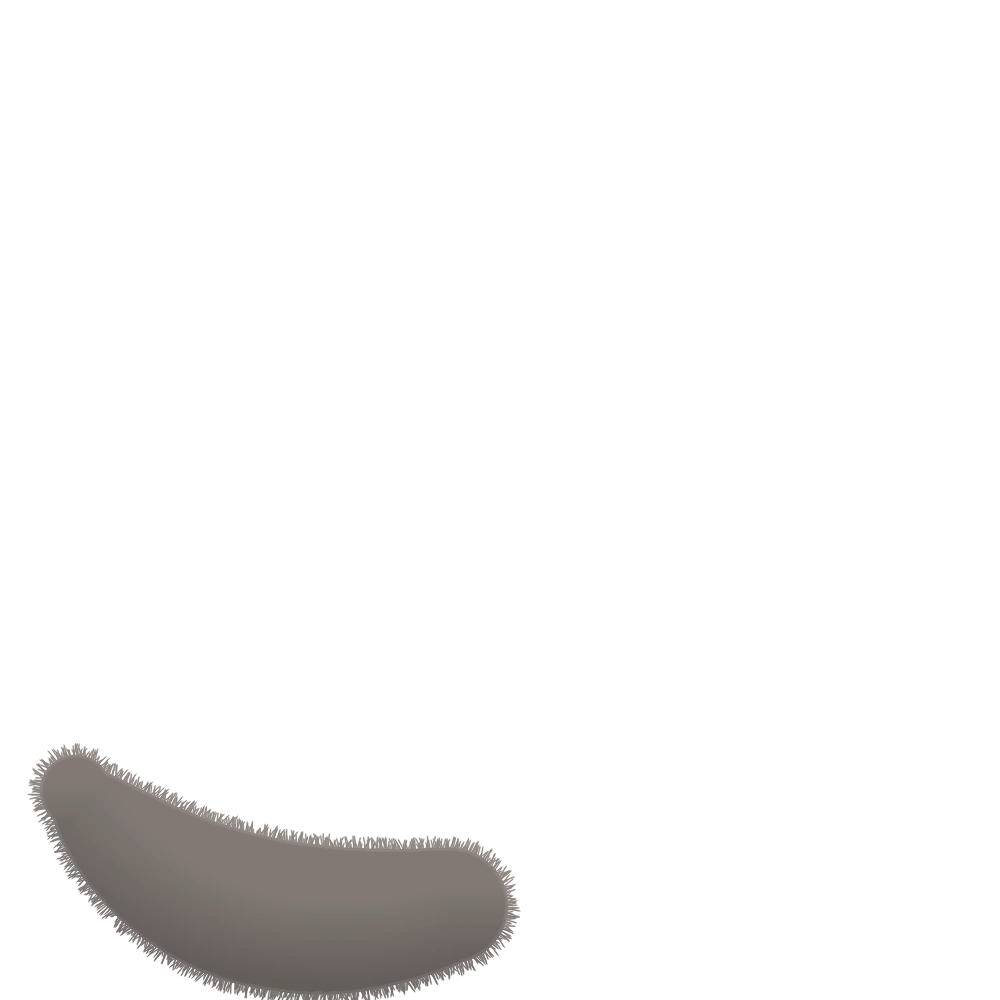
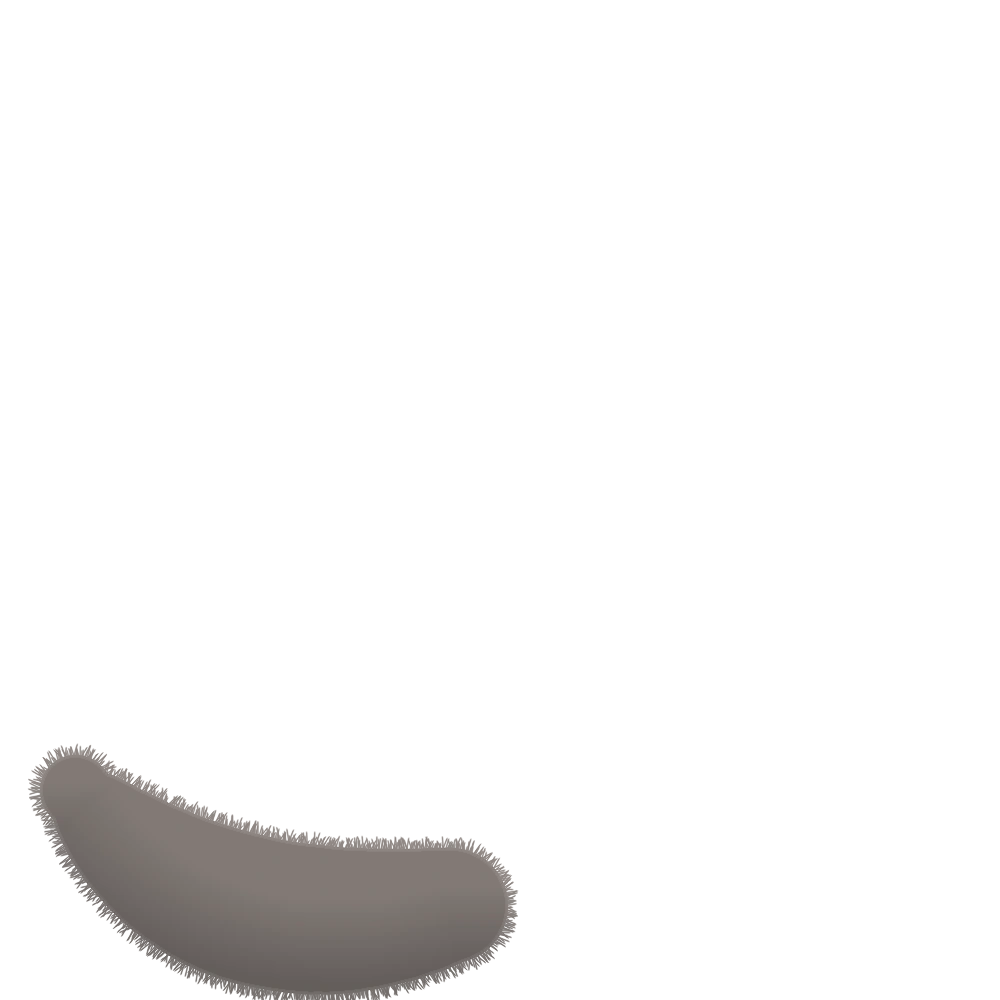
アナちゃん：耳の先のふさ・耳の中の毛・ほおの毛を 写真に合わせて調整
- 耳の先に 短い ふさ、耳の中から 外へのびる毛（耳メッシュの頂点に追従）
- 耳のつけ根の 白いかたまりを なくす
- ほおの毛を 灰色がかった こまかい房に、耳の下から 下へ広がる形に
- 胸のたてがみを 厚く、目の色を 少し 金色よりに
- 重ねる画像に mipmap（細い毛が 点々にならない）

Claude-Session: https://claude.ai/code/session_01W4x6f7KtFbhsBZfqVxHVQA

diff --git a/william/tpl.html b/william/tpl.html
@@ -728,14 +728,18 @@ function anaH() { return catH * 1.06; }
 // 座標は Tororo のモデルの座標（足もと (1000, 2201)、頭のまん中 (1000, 760)）。長毛の絵は 1 画素 = モデル 2 画素、左上 = モデルの (0, 300)
 async function loadAna(app, william) {
 	try {
-		while (ANA.n < 3) await new Promise((r) => setTimeout(r, 100));
-		const I = ANA.img, T = (im) => PIXI.Texture.from(im), root = new PIXI.Container(); root.pivot.set(1000, 2201);
+		while (ANA.n < 5) await new Promise((r) => setTimeout(r, 100));
+		const I = ANA.img, T = (im) => { const t = PIXI.Texture.from(im); t.baseTexture.mipmap = PIXI.MIPMAP_MODES.ON; return t; }, root = new PIXI.Container(); root.pivot.set(1000, 2201);
 		const spr = (im) => { const sp = new PIXI.Sprite(T(im)); sp.scale.set(2); sp.position.set(0, 300); return sp; };
 		const tail = new PIXI.SimplePlane(T(I.tail), 26, 2); tail.scale.set(2); tail.position.set(0, 300); ANA.tailV = Float32Array.from(tail.geometry.getBuffer('aVertexPosition').data);
 		const back = spr(I.back), mane = spr(I.mane);
 		const mk = async (url) => { const m = await PIXI.live2d.Live2DModel.from(url, { autoInteract: false }); m.internalModel.motionManager.groups.idle = '__none__'; m.internalModel.on('beforeModelUpdate', () => anaParams(m.internalModel.coreModel)); return m; };
 		const body = await mk('w/anabody.model3.json'), face = await mk('w/ana.model3.json');
-		root.addChild(tail, back, body, mane, face); app.stage.addChildAt(root, app.stage.getChildIndex(william));
+		// 耳の先の 竖毛と、耳から外へ出る 白い毛：毎コマ 耳の実際の位置（モデルの頂点）に合わせて置く
+		const ids = Array.from(body.internalModel.coreModel._model.drawables.ids); ANA.earIdx = [ids.indexOf('D_EAR_00'), ids.indexOf('D_EAR_04')];
+		ANA.tips = [0, 1].map(() => { const sp = new PIXI.Sprite(T(I.eartip)); sp.anchor.set(0.5, 104 / 110); sp.scale.set(2); return sp; });
+		ANA.hairs = [-1, 1].map((sx) => { const sp = new PIXI.Sprite(T(I.earhair)); sp.anchor.set(0.5, 104 / 110); sp.scale.set(2 * sx, 2); return sp; });
+		root.addChild(tail, back, ...ANA.tips, body, ...ANA.hairs, mane, face); app.stage.addChildAt(root, app.stage.getChildIndex(william));
 		Object.assign(ANA, { root, tail, back, mane, body, face, blinkAt: performance.now() + 3000, nextLick: performance.now() + 12000 });
 	} catch (e) { console.error(e); }
 }
@@ -767,8 +771,15 @@ function drawAna(t) {
 	const P = ANA.P = { lid, lick, dip, up, lx: reduce ? 0 : sm('lx', (pointer.nx || 0) * 0.9, 5), ly: reduce ? 0 : sm('ly', (pointer.ny || 0) * 0.7, 5), br: reduce ? 0 : Math.sin(t / 1500), sway: reduce ? 0 : Math.sin(t / 4300) * 0.7 + Math.sin(t / 2700 + 1) * 0.3,
 		chew: dip * (0.5 - 0.5 * Math.cos(t / 105)), earL: tw < 1 ? Math.sin(tw * Math.PI) : 0, earR: tw2 < 1 ? Math.sin(tw2 * Math.PI) : 0 };
 	ANA.root.position.set(sp.x, sp.y); ANA.root.scale.set(k);
+	// 耳の毛：耳の頂点から、耳の先（いちばん上の点）と 耳の向きを 求めて 置く（耳が動いても ずれない）
+	{ const dr = ANA.body.internalModel.coreModel._model.drawables;
+	  ANA.earIdx.forEach((di, e) => { const v = dr.vertexPositions[di]; if (!v) return; let tx = 0, ty = 1e9, cx = 0, cy = 0, n = v.length / 2;
+		for (let i = 0; i < v.length; i += 2) { const x = v[i] * 2000 + 1000, y = -v[i + 1] * 2000 + 1250; cx += x / n; cy += y / n; if (y < ty) { ty = y; tx = x; } }
+		const ang = Math.atan2(ty - cy, tx - cx) + Math.PI / 2, tip = ANA.tips[e], hr = ANA.hairs[e], sx = e ? 1 : -1;
+		tip.position.set(tx - Math.sin(ang) * -10, ty + 14); tip.rotation = ang;
+		hr.position.set(cx - sx * 34, cy + 70); hr.rotation = ang * 0.8; }); }  /* 耳の中の 下のほうから 生える */
 	// 長毛の部分は 体の動きに 少しだけ ついていく
-	ANA.mane.position.set(P.lx * 6, 300 + P.br * 3 - P.dip * 4); ANA.back.position.set(P.lx * 3, 300);
+	ANA.mane.position.set(P.lx * 6, 300 + P.br * 3 - P.dip * 4); ANA.back.position.set(P.lx * 9, 300 + P.ly * 4 - P.dip * 0);
 	// しっぽ：つけ根（モデルの (900, 2110)）から先へ 波が伝わるように しなる
 	{ const buf = ANA.tail.geometry.getBuffer('aVertexPosition'), d = buf.data, o = ANA.tailV, A = 0.03 + 0.05 * fast, w = t / (1100 - 650 * fast), bx = 450, by = 905;
 	  for (let i = 0; i < d.length; i += 2) { const u = Math.max(0, Math.min(1, (bx - o[i]) / 380)), a = reduce ? 0 : A * Math.sin(w - u * 2.6) * Math.pow(u, 1.2), dx = o[i] - bx, dy = o[i + 1] - by, cs = Math.cos(a), sn = Math.sin(a); d[i] = bx + dx * cs - dy * sn; d[i + 1] = by + dx * sn + dy * cs; }

diff --git a/william/ana/make_ana.py b/william/ana/make_ana.py
@@ -65,9 +65,10 @@ for (x0, y0, x1, y1, sx) in [(1247, 1432, 1400, 1693, -1), (1427, 1427, 1588, 16
         bx = rng.uniform(0.2, 0.8) * w_; by = h_ - rng.uniform(0.02, 0.3) * h_; L_ = rng.uniform(0.25, 0.6) * h_; dx = rng.uniform(-0.18, 0.18) * L_ + sx * 0.1 * L_
         pts = (np.array([[bx, by], [bx + dx * 0.5, by - L_ * 0.5], [bx + dx, by - L_]]) * 8).astype(np.int32); v = rng.randint(244, 254); cv2.polylines(lay, [pts], False, (v, v, v), 1, cv2.LINE_AA, 3)
     al = reg[..., 3:] > 0; reg[..., :3] = np.where(al, (reg[..., :3].astype(np.float32) * 0.45 + lay.astype(np.float32) * 0.55).astype(np.uint8), reg[..., :3])
-for (x0, y0, x1, y1) in [(1640, 1700, 1830, 1965), (1845, 1700, 2030, 1968)]:                              # 耳のつけ根の毛の房（Tororo では 白）：写真の アナちゃんには 白い房は ない → 頭の上と同じ灰色に
-    reg = A[y0:y1, x0:x1]; Lr = lum(reg[..., :3].astype(np.float32)); sel = reg[..., 3] > 0
-    reg[sel, :3] = ((DARK * 0.35 + GREY * 0.65) * np.clip(Lr[sel] / 245, 0.82, 1.06)[:, None]).clip(0, 255).astype(np.uint8)
+for (x0, y0, x1, y1) in [(1640, 1700, 1830, 1965), (1845, 1700, 2030, 1968)]:                              # 耳の中の毛（Tororo では 白い かたまり）：上は うすい白い毛（耳の中が すけて見える）、つけ根だけ 頭と同じ灰色に とけこむ（写真に 白い房は ない）
+    reg = A[y0:y1, x0:x1]; h_ = reg.shape[0]; v = (np.mgrid[0:h_, 0:reg.shape[1]][0] / h_).astype(np.float32); k = ss(0.5, 0.82, v)[..., None]; sel = reg[..., 3] > 0
+    col = np.array([246, 248, 250], np.float32) * (1 - k) + (DARK * 0.35 + GREY * 0.65) * k; reg[..., :3] = np.where(sel[..., None], col.astype(np.uint8), reg[..., :3])
+    reg[..., 3] = (reg[..., 3].astype(np.float32) * (0.5 + 0.5 * ss(0.45, 0.8, v))).astype(np.uint8)
 for (x0, y0, x1, y1) in [(1598, 1450, 1812, 1706), (1814, 1448, 2028, 1700)]:                              # 耳のうしろ（外がわ）：アナちゃんの灰色に
     reg = A[y0:y1, x0:x1]; Lr = lum(reg[..., :3].astype(np.float32)); sel = (reg[..., 3] > 0) & (np.ptp(reg[..., :3].astype(np.int32), axis=2) < 40)
     reg[sel, :3] = (GREY * np.clip(Lr[sel] / 120, 0.75, 1.2)[:, None]).clip(0, 255).astype(np.uint8)
@@ -85,6 +86,10 @@ drop(a, 1235, 1415, 2040, 2040, lambda s: s[cv2.CC_STAT_AREA] > 3000 and s[cv2.C
 def paint_rim(reg, sel, mx, my):
     g = face_mark(mx, my)[..., None]; col = WHITE * (1 - g) + (DARK * 0.35 + GREY * 0.65) * g; reg[sel, :3] = col[sel].clip(0, 255).astype(np.uint8)
 for pid in ('D_EYE_02', 'D_EYE_03', 'D_EYE_04', 'D_EYE_05'): map_part(B, pid, paint_rim)   # まぶた：顔の土台と 同じ模様の色
+for (x0, y0, x1, y1) in [(545, 1818, 678, 1946), (780, 1818, 908, 1946)]:                               # 目の色：写真に合わせて 少し 金色〜黄色よりに
+    reg = B[y0:y1, x0:x1]; hsv = cv2.cvtColor(reg[..., :3], cv2.COLOR_BGR2HSV).astype(np.float32); sel = (hsv[..., 1] > 70) & (reg[..., 3] > 0)
+    hsv[..., 0] = np.where(sel, hsv[..., 0] * 0.4 + 23 * 0.6, hsv[..., 0]); hsv[..., 1] = np.where(sel, hsv[..., 1] * 0.9, hsv[..., 1]); hsv[..., 2] = np.where(sel, np.clip(hsv[..., 2] * 1.14 + 8, 0, 255), hsv[..., 2])
+    reg[..., :3] = cv2.cvtColor(hsv.clip(0, 255).astype(np.uint8), cv2.COLOR_HSV2BGR)
 os.makedirs(os.path.join(ROOT, 'public', 'w', 'ana.2048'), exist_ok=True)
 cv2.imwrite(os.path.join(ROOT, 'public', 'w', 'ana.2048', 'texture_00.png'), B, [cv2.IMWRITE_PNG_COMPRESSION, 9])
 for nm in ('ana', 'anabody'):
@@ -127,20 +132,27 @@ def save(img, name): Image.fromarray(cv2.cvtColor(img, cv2.COLOR_BGRA2RGBA)).sav
 
 # うしろの毛：体の両わきと下の ふくらみ（灰色のわき、下は白）＋ ほおの毛（頭の下半分から 外へ）
 mb = tuft_shape(1000, 1580, 470, 500, 84, 0.05, 0.6, 0.0, math.pi * 2)
-mc = np.maximum(tuft_shape(790, 900, 124, 132, 22, 0.2, 0.7, math.pi * 0.25, math.pi * 1.35), tuft_shape(1210, 900, 124, 132, 22, 0.2, 0.7, -math.pi * 0.35, math.pi * 0.75))   # ほおの毛：こまかい毛先を たくさん
+mc = np.zeros((CH, CW), np.uint8)                                                        # ほおの毛：耳の下から はじまり、下へ いくほど ひろがる。こまかい房が たくさん
+for sgn in (-1, 1):
+    a0, a1 = (math.pi * 0.2, math.pi * 1.25) if sgn < 0 else (-math.pi * 0.25, math.pi * 0.8)
+    mc = np.maximum(mc, tuft_shape(1000 + sgn * 218, 860, 118, 150, 30, 0.2, 1.0, a0, a1)); mc = np.maximum(mc, tuft_shape(1000 + sgn * 200, 980, 178, 180, 48, 0.2, 1.0, a0, a1))
 m = np.maximum(mb, mc)
-gb = np.maximum(ss(300, 420, np.abs(MX - 1000) + (1700 - MY) * 0.06) * ss(1150, 1350, MY), face_mark(MX, MY - 60) * (MY < 1000) * ss(150, 215, np.abs(MX - 1000)))
-back = fine_hairs(soft_paint(m, gb, edge_shade(m, 30) * 0.4))
+gb = ss(300, 420, np.abs(MX - 1000) + (1700 - MY) * 0.06) * ss(1150, 1350, MY)
+back = soft_paint(m, gb, edge_shade(m, 30) * 0.4)
+GREIGE = np.array([126, 134, 150], np.float32)                                          # ほおの毛の色：うすい あたたかい灰色。毛先（下）だけ 白っぽく（写真）
+ck = (cv2.GaussianBlur((ss(1150, 1010, MY) * (MY < 1160) * (np.abs(MX - 1000) > 150)).astype(np.float32), (0, 0), 8))[..., None] * 0.92
+back[..., :3] = (back[..., :3] * (1 - ck) + GREIGE * ck).clip(0, 255).astype(np.uint8)
+back = fine_hairs(back, 0.55, (5, 14))
 save(back, 'ana_back.webp')
 # 胸のたてがみ：あごの下から 房になって下がる 白い毛。上は 胸に とけこむ（ふちを 見せない）
-mm = tuft_shape(1000, 1300, 300, 330, 30, 0.1, 0.85, 0.0, math.pi)
-mm = np.maximum(mm, tuft_shape(1000, 1240, 270, 240, 26, 0.1, 0.85, 0.0, math.pi))
+mm = tuft_shape(1000, 1330, 350, 400, 34, 0.1, 0.85, 0.0, math.pi)
+mm = np.maximum(mm, tuft_shape(1000, 1250, 310, 280, 30, 0.1, 0.85, 0.0, math.pi))
 rows = np.zeros((CH, CW), np.float32)                                                   # 毛の重なり：房の下がわに うすい影（Tororo の 胸の やわらかい影）
-for (cy, rx, ry, n) in [(1230, 230, 150, 20), (1280, 265, 230, 24)]:
+for (cy, rx, ry, n) in [(1220, 220, 130, 20), (1260, 270, 220, 24), (1310, 315, 310, 28)]:
     r = tuft_shape(1000, cy, rx, ry, n, 0.2, 0.85, 0.0, math.pi).astype(np.float32) / 255; e = cv2.GaussianBlur(r, (0, 0), 7) - cv2.GaussianBlur(r, (0, 0), 2); rows = np.maximum(rows, np.clip(-e * 3.2, 0, 1) * (1 - r) + np.clip(e * 0, 0, 1))
-mane = fine_hairs(soft_paint(mm, np.zeros((CH, CW)), np.clip(edge_shade(mm, 22) * 0.45 * ss(1300, 1420, MY) + rows * 0.45, 0, 1)), 0.7, (4, 12))
+mane = fine_hairs(soft_paint(mm, np.zeros((CH, CW)), np.clip(edge_shade(mm, 22) * 0.45 * ss(1380, 1520, MY) + rows * 0.5, 0, 1)), 0.8, (5, 16))
 fade = ss(1040, 1160, MY) * (1 - ss(0.0, 1.0, np.zeros_like(MY)))                       # 上は 透明に
-mane[..., 3] = (mane[..., 3].astype(np.float32) * ss(1150, 1400, MY) * ss(330, 240, np.abs(MX - 1000) - (MY - 1300) * 0.25)).astype(np.uint8)   # 上と 両はしは 胸に とけこむ
+mane[..., 3] = (mane[..., 3].astype(np.float32) * ss(1090, 1280, MY) * ss(390, 300, np.abs(MX - 1000) - (MY - 1300) * 0.3)).astype(np.uint8)   # 上と 両はしは 胸に とけこむ
 save(mane, 'ana_mane.webp')
 # しっぽ：Tororo と同じく 体のうしろから 左へ 床にそって。長毛なので 太く ふさふさ
 tm = np.zeros((CH, CW), np.uint8); sp = []
@@ -158,4 +170,18 @@ for c in cs:
         pp = (np.array([[x - nx / dd * 2, y - ny / dd * 2], [x + math.cos(ang) * L, y + math.sin(ang) * L]]) * 8).astype(np.int32)
         c3 = tuple(float(v) for v in tail[int(np.clip(y - ny / dd * 2, 0, CH - 1)), int(np.clip(x - nx / dd * 2, 0, CW - 1)), :3]); cv2.polylines(tr, [pp], False, c3, 1, cv2.LINE_AA, 3); cv2.polylines(ta, [pp], False, 230, 1, cv2.LINE_AA, 3)
 save(np.dstack([tr, ta]), 'ana_tail.webp')
+# 耳の先の 竖毛（リンクスティップ）と、耳から 外へ出る 白い長い毛。ページの側で 毎コマ 耳の実際の位置に合わせて置く（100×110 の絵、下のまん中が 根もと）
+def hair_sprite(n, lengths, spread, colfn, width, bend=(-0.15, 0.15), taper=0.0, base=5):
+    """細い毛の束。taper>0 で 先が 1点に あつまる（耳の先の ふさ）。bend で 同じ向きに しなる（耳の中の毛）"""
+    im = np.zeros((110, 100, 4), np.uint8); rgb = np.ascontiguousarray(im[..., :3]); al = np.ascontiguousarray(im[..., 3])
+    for i in range(n):
+        L = rng.uniform(*lengths); ang = math.radians(-90 + rng.uniform(*spread)); x0, y0 = 50 + rng.uniform(-base, base), 104 + rng.uniform(-3, 3); b = rng.uniform(*bend) * L
+        x1, y1 = x0 + math.cos(ang) * L, y0 + math.sin(ang) * L
+        x1 = x1 * (1 - taper) + (50 + (x1 - x0) * 0.3) * taper
+        pts = (np.array([[x0, y0], [(x0 + x1) / 2 - math.sin(ang) * b, (y0 + y1) / 2 + math.cos(ang) * b], [x1, y1]]) * 8).astype(np.int32)
+        cv2.polylines(rgb, [pts], False, colfn(), width, cv2.LINE_AA, 3); cv2.polylines(al, [pts], False, 255, width, cv2.LINE_AA, 3)
+    al = cv2.GaussianBlur(al, (0, 0), 0.5)
+    return np.dstack([rgb, al])
+save(hair_sprite(12, (18, 36), (-6, 6), lambda: tuple(float(v) for v in (DARK * rng.uniform(0.9, 1.3))), 1, (-0.06, 0.06), 0.6, 5), 'ana_eartip.webp')   # 耳の先：根もとは幅があり 先で すぼまる 短い ふさ
+save(hair_sprite(11, (40, 74), (4, 34), lambda: (float(rng.randint(226, 240)), float(rng.randint(234, 246)), float(rng.randint(240, 250))), 1, (0.06, 0.16), 0.0, 8), 'ana_earhair.webp')   # 耳の中から 外へ しなって のびる クリーム色の長い毛
 print('ok')

diff --git a/william/build.py b/william/build.py
@@ -78,7 +78,7 @@ def main():
             '<style>body{margin:0}img{max-width:100%}[hidden]{display:none!important}</style>\n')
     out = head + s[:i] + '\n</head>\n<body>\n' + s[i:] + '\n</body>\n</html>\n'
     # playground.html：試し中の機能（アナちゃん）を入れたページ。本番（index.html）には出さない
-    open(os.path.join(ROOT, 'public', 'playground.html'), 'w', encoding='utf-8').write(out.replace('__PLAY__', 'true').replace('__ANA__', json.dumps({k: data_uri('ana_' + k + '.webp') for k in ('back', 'mane', 'tail')})).replace('<title>', '<title>[playground] ', 1))
+    open(os.path.join(ROOT, 'public', 'playground.html'), 'w', encoding='utf-8').write(out.replace('__PLAY__', 'true').replace('__ANA__', json.dumps({k: data_uri('ana_' + k + '.webp') for k in ('back', 'mane', 'tail', 'eartip', 'earhair')})).replace('<title>', '<title>[playground] ', 1))
     out = out.replace('__PLAY__', 'false').replace('__ANA__', '{}')
     open(os.path.join(ROOT, 'public', 'index.html'), 'w', encoding='utf-8').write(out)
     print('public/index.html', len(out) // 1024, 'KB')

diff --git a/william/ana/README.md b/william/ana/README.md
@@ -15,3 +15,10 @@
   - 2 つのモデルに 同じパラメータを入れる（William と同じ Tororo のパラメータ：顔の向き・目・まばたき・耳・口・舌・呼吸）
   - しっぽは 網目を曲げて ゆらす
 - 作り直し：`python3 william/ana/make_ana.py` → `npm run build`
+
+## 耳の毛（スプライト）
+
+- `ana_eartip.webp`：耳の先の 短い ふさ（リンクスティップ）。`ana_earhair.webp`：耳の中から 外へ のびる クリーム色の毛。
+- どちらも 毎フレーム、体モデルの 耳メッシュ（`D_EAR_00` / `D_EAR_04`）の 頂点から 位置と角度を 計算して置く（`drawAna`）。耳が動いても ずれない。
+- 重ねる画像は 小さく表示されるので、テクスチャは mipmap を ON にしている（細い毛が 点々に ならないように）。
+- ほおの毛は `ana_back.webp` の中。耳の下から はじまり、下へ いくほど 広がる 灰色がかった こまかい房。
